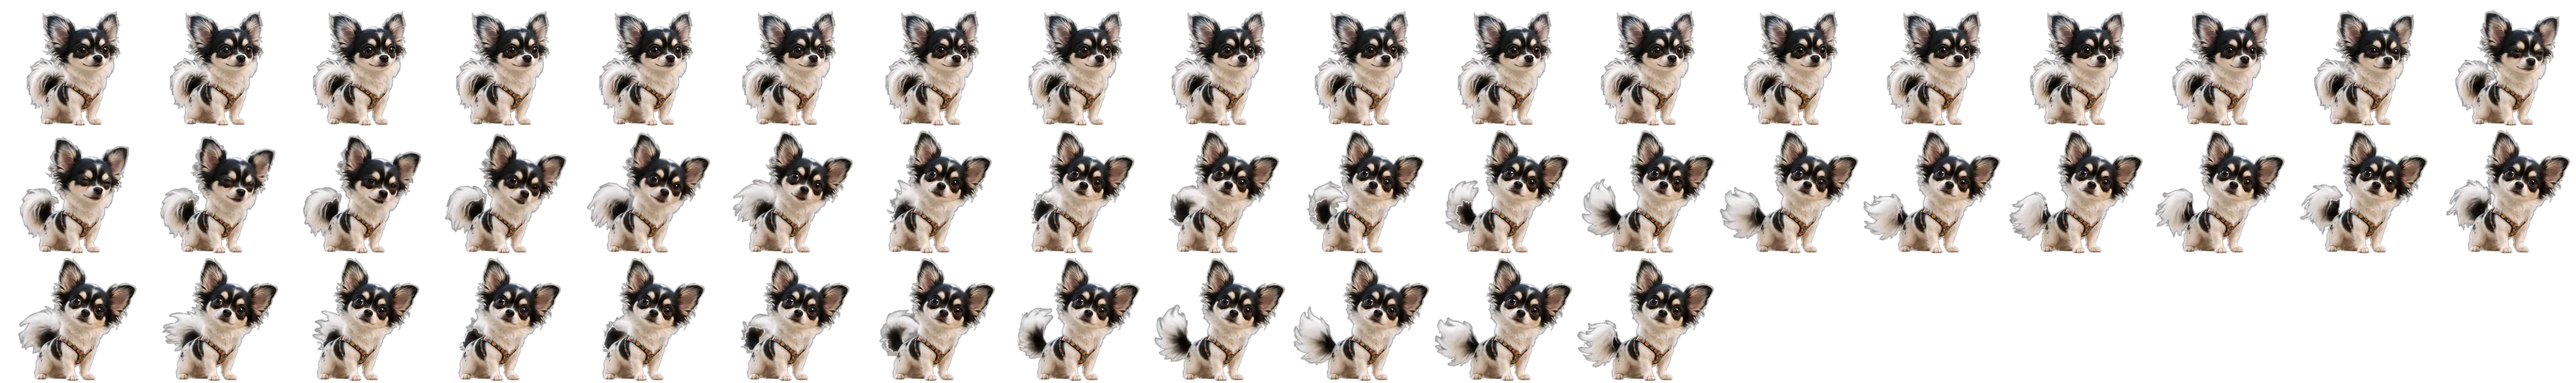
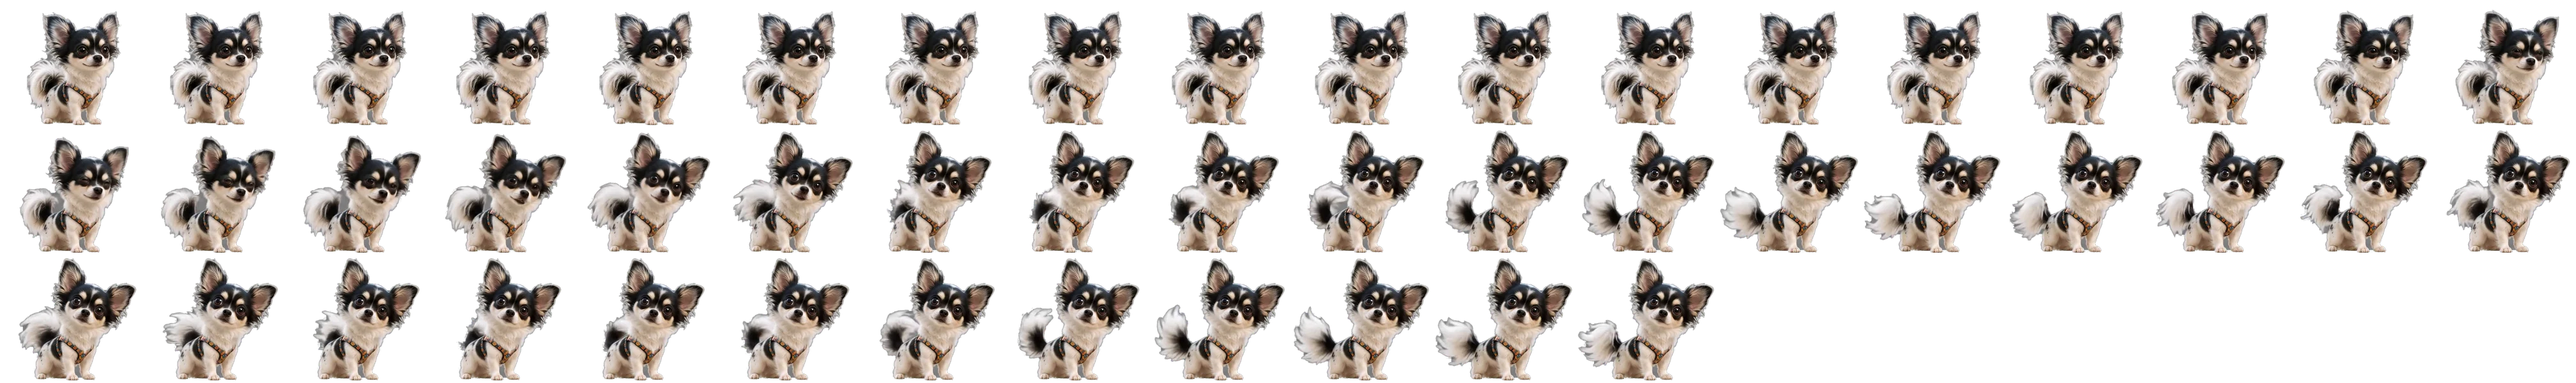
Segunda rodada: aura, Furtão furado, amigos no ar, bilhete e câmera
- Sem a aura (contorno de luz) em volta do Timtim e dos bichos.
- Recorte dos vídeos refeito: o pelo claro do peito do Furtão era
  apagado junto com o fundo cinza e abria um buraco no corpo; o miolo
  do corpo agora fica opaco. Todas as 26 animações foram refeitas.
- Zara e Elvis param na beirada do buraco (antes andavam no ar).
- Correio elegante pequeno, no lado esquerdo, fora do caminho.
- Timtim comemora ao lado do Furtão derrotado, não dentro dele.
- Câmera sobe junto quando o Timtim vai alto; galhos do Arraial mais
  leves; faixas com sombra escura; raízes atrás do Timtim; ovo menor;
  balão de fala sempre dentro da tela; frase de carregamento certa
  em cada fase.
- Teste novo: amigos param na beirada.

diff --git a/game/src/render3d.js b/game/src/render3d.js
@@ -397,7 +397,7 @@ sky.scale.set(4700, 2700, 1); sky.position.set(0, 300, -3000);
   if (!ARR) for (const [x, y, w] of C.plats) { // fase 1: lajes de pedra com musgo luminoso e raízes penduradas (como antes)
     const m = new THREE.Mesh(boxUV(w, 18, 70, 120), [side, side, moss, side, side, side]);
     m.position.set(x + w / 2, GROUND - y - 9, 0); m.castShadow = m.receiveShadow = true; add(m);
-    const rt = add(new THREE.Mesh(planeGeoTop, rootM)); rt.scale.set(w * 0.96, 54 + (x % 40), 1); rt.position.set(x + w / 2, GROUND - y - 16, 30);
+    const rt = add(new THREE.Mesh(planeGeoTop, rootM)); rt.scale.set(w * 0.96, 54 + (x % 40), 1); rt.position.set(x + w / 2, GROUND - y - 16, -30); // as raízes ficam atrás do Timtim (na frente, cobriam ele quando pulava por baixo)
     const gl = add(new THREE.Mesh(planeGeoC, glowMat(PAL.mint, 0.22)), 3); gl.scale.set(w * 1.5, 46, 1); gl.position.set(x + w / 2, GROUND - y + 2, 34);
     pulses.push({ m: gl, base: 0.22, ph: x });
   }
@@ -475,10 +475,11 @@ sky.scale.set(4700, 2700, 1); sky.position.set(0, 300, -3000);
   // primeiro plano: folhagens escuras entre a câmera e o jogo, embaixo e penduradas em cima
   const FRONT = ARR ? 0x4a2a1e : 0xffffff; // no Arraial, o primeiro plano vira silhueta quase preta (o jogo fica entre ela e o fundo claro)
   const frenteM = texFrente.map(t => new THREE.MeshBasicMaterial({ map: t, color: FRONT, transparent: true, depthWrite: false, fog: false, side: THREE.DoubleSide }));
-  const galhoM = texGalhos && new THREE.MeshBasicMaterial({ map: texGalhos, color: FRONT, transparent: true, depthWrite: false, fog: false, side: THREE.DoubleSide });
+  // os galhos pendurados na frente não viram mancha preta no meio da tela: no Arraial ficam num marrom quente e meio transparentes
+  const galhoM = texGalhos && new THREE.MeshBasicMaterial({ map: texGalhos, color: ARR ? 0x7a5340 : 0xffffff, opacity: ARR ? 0.7 : 1, transparent: true, depthWrite: false, fog: false, side: THREE.DoubleSide });
   for (let i = 0, x = -200; x < END - 300; i++, x += 620 + (i * 397 % 420)) {
     const m = new THREE.Mesh(planeGeo, frenteM[i % 2]), hh = 150 + (i % 3) * 22; m.scale.set(hh * FRENTE_AR[i % 2] * (i % 4 > 1 ? -1 : 1), hh, 1); m.position.set(x, -78, 350 + (i % 2) * 50); add(m, 9);
-    if (i % 2) { const t = new THREE.Mesh(planeGeoTop, galhoM); const gh = 250 + (i % 3) * 30; t.scale.set(gh * GALHO_AR * (i % 4 === 1 ? -1 : 1), gh, 1); t.position.set(x + 310, 500, 330); add(t, 9); }
+    if (i % 2) { const t = new THREE.Mesh(planeGeoTop, galhoM); const gh = 250 + (i % 3) * 30; t.scale.set(gh * GALHO_AR * (i % 4 === 1 ? -1 : 1), gh, 1); t.position.set(x + 310, ARR ? 600 : 500, 330); add(t, 9); }
   }
 })();
 // ---------------- o Arraial (fase 2) ----------------
@@ -667,10 +668,11 @@ const itemM = S.items.map(it => { const m = sprite(it.type === 'gold' ? 'cookie'
   return m; });
 const friendM = S.friends.map(f => { const m = sprite(f.kind, 5, true, 0xfff6ec); m.geometry = legGeo();
   m.userData.glow = add(new THREE.Mesh(planeGeoC, glowMat(0xffd9a0, 0.3)), 4); return m; });
+R.dbg = { brute: () => bruteM, friends: () => friendM }; // (para os testes inspecionarem o desenho)
 const giftM = [0, 1].map(() => { const m = sprite(C.GIFT_ITEM, 7, false); m.geometry = planeGeoC; m.visible = false;
   m.userData.glow = add(new THREE.Mesh(planeGeoC, glowMat(0xffd27a, 0.8)), 6); m.userData.glow.visible = false; return m; });
 // no Arraial, galinhas, lobo-guará, Zara, Elvis e o ovo ganham o contorno de luz fria
-if (ARR) { [foxM, ...runnerM, ...pigeonM, ...friendM].forEach(m => addRim(m, 0xcfe6ff, 0.55)); giftM.forEach(m => addRim(m, 0xffffff, 0.7)); }
+// (os contornos de luz nos personagens do Arraial saíram: pareciam uma aura recortada em volta de cada um)
 // cena do roubo: um segundo Furtão (o chefão real só aparece na arena) com o Macaco Fedido pendurado na boca
 const thiefM = sprite('brute-charge', 6, true, 0xf2e2d2); thiefM.geometry = legGeo(); thiefM.userData.ph = 0; thiefM.visible = false;
 const carryM = sprite('monkey-front', 7, true, 0xfff4e6); carryM.geometry = planeGeoTop; carryM.visible = false;
@@ -871,7 +873,7 @@ R.frame = (rdt) => {
       const pa = cape.geometry.attributes.position, wv = 13 + Math.min(10, Math.abs(p.vy) / 40);
       for (let i = 0; i < pa.count; i++) { const x = capeX[i]; pa.setY(i, capeY[i] + Math.sin(x * 7 + time * wv) * 0.09 * -x); }
       pa.needsUpdate = true; } }
-  rim.geometry = tintim.geometry; rim.material.map = tintim.material.map; rim.visible = tintim.visible && S.mode !== 'lose';
+  rim.geometry = tintim.geometry; rim.material.map = tintim.material.map; rim.visible = false; // o contorno de luz parecia uma aura recortada em volta dele: desligado
   rim.position.set(tintim.position.x, tintim.position.y - 2, tintim.position.z - 0.6); rim.rotation.z = tintim.rotation.z; rim.scale.set(tintim.scale.x * 1.07, tintim.scale.y * 1.06, 1);
   rim.material.opacity = (ARR ? 0.5 : 0.6) + Math.sin(time * 3.1) * 0.06 + (p.egg > 0 ? 0.25 : 0);
   if (p.egg > 0 && Math.random() < live * (p.gliding ? 40 : 12)) spawn({ x: tx - p.face * 30 + (Math.random() - 0.5) * 30, y: p.y + 10 + Math.random() * 20, vx: -p.face * 40, vy: 20 + Math.random() * 40, g: 30, life: 0.7, r: 2 + Math.random() * 2, color: Math.random() < 0.5 ? 0xffe08a : 0xfff4c8, hard: true });
@@ -912,7 +914,7 @@ R.frame = (rdt) => {
     const g = m.userData.glow; g.position.set(f.x, 30 + hop, -38); const s = 120 + Math.sin(f.t * 2.2) * 8; g.scale.set(s, s, 1); g.material.opacity = f.given ? 0.2 : 0.34;
   });
   giftM.forEach((m, i) => { const g = S.gifts[i], gl = m.userData.glow; m.visible = gl.visible = !!g; if (!g) return;
-    const gs = C.GIFT_ITEM === 'ovo' ? 60 : 30; m.scale.set(gs * AR[C.GIFT_ITEM], gs, 1); m.position.set(g.x, Y(g.y), 5); m.rotation.z = g.t * (C.GIFT_ITEM === 'ovo' ? 5 : 9); gl.position.set(g.x, Y(g.y), 4); gl.scale.set(ARR ? 130 : 86, ARR ? 130 : 86, 1); if (ARR) gl.material.color.set(0xfff6e0); // o ovo: maior e com um brilho claro, para não sumir no laranja
+    const gs = C.GIFT_ITEM === 'ovo' ? 44 : 30; m.scale.set(gs * AR[C.GIFT_ITEM], gs, 1); m.position.set(g.x, Y(g.y), 5); m.rotation.z = g.t * (C.GIFT_ITEM === 'ovo' ? 5 : 9); gl.position.set(g.x, Y(g.y), 4); gl.scale.set(ARR ? 92 : 86, ARR ? 92 : 86, 1); if (ARR) gl.material.color.set(0xffe2a0); // o ovo: maior e com um brilho claro, para não sumir no laranja
     if (Math.random() < 0.6) spawn({ x: g.x, y: g.y, vx: (Math.random() - 0.5) * 40, vy: (Math.random() - 0.5) * 40, g: 60, life: 0.45, r: 3, color: 0xffd98a }); });
 
   // Brutão

diff --git a/game/src/anim-data.js b/game/src/anim-data.js
@@ -2,4 +2,4 @@
 // n quadros numa grade cols x rows; ar = largura/altura da célula; mode: ciclo (laço), vaivem (vai e volta), trecho (uma vez);
 // body = altura do corpo em fração da célula; foot = folga embaixo do pé.
 window.TT = window.TT || {};
-TT.ANIM = {"elvis-corre": {"n": 8,"cols": 8,"rows": 1,"ar": 1.17,"mode": "ciclo","body": 0.9265,"foot": 0.025},"elvis-parado": {"n": 48,"cols": 18,"rows": 3,"ar": 1.12,"mode": "vaivem","body": 0.955,"foot": 0.02},"elvis-pula": {"n": 36,"cols": 30,"rows": 2,"ar": 0.67,"mode": "vaivem","body": 0.9275,"foot": 0.035},"furtao-anda": {"n": 23,"cols": 10,"rows": 3,"ar": 1.36,"mode": "ciclo","body": 0.9333,"foot": 0.0433},"furtao-investe": {"n": 17,"cols": 8,"rows": 3,"ar": 1.8423,"mode": "ciclo","body": 0.9015,"foot": 0.0462},"furtao-late": {"n": 37,"cols": 14,"rows": 3,"ar": 0.97,"mode": "ciclo","body": 0.9533,"foot": 0.0167},"furtao-morde": {"n": 36,"cols": 9,"rows": 4,"ar": 1.5893,"mode": "vaivem","body": 0.9339,"foot": 0.0214},"furtao-tonto": {"n": 36,"cols": 11,"rows": 4,"ar": 1.1567,"mode": "vaivem","body": 0.9383,"foot": 0.0167},"galinha-anda": {"n": 11,"cols": 11,"rows": 1,"ar": 0.8,"mode": "ciclo","body": 0.935,"foot": 0.03},"galinha-foge": {"n": 16,"cols": 16,"rows": 1,"ar": 0.96,"mode": "ciclo","body": 0.915,"foot": 0.0375},"guara-anda": {"n": 26,"cols": 12,"rows": 3,"ar": 1.0281,"mode": "ciclo","body": 0.9563,"foot": 0.0219},"guara-come": {"n": 36,"cols": 9,"rows": 4,"ar": 1.775,"mode": "vaivem","body": 0.7583,"foot": 0.0208},"guara-corre": {"n": 17,"cols": 8,"rows": 3,"ar": 1.6321,"mode": "ciclo","body": 0.93,"foot": 0.0393},"guara-fucha": {"n": 21,"cols": 7,"rows": 3,"ar": 2.2042,"mode": "ciclo","body": 0.9375,"foot": 0.025},"guara-late": {"n": 36,"cols": 11,"rows": 4,"ar": 1.1313,"mode": "vaivem","body": 0.9656,"foot": 0.0125},"guara-tonto": {"n": 36,"cols": 11,"rows": 4,"ar": 1.125,"mode": "vaivem","body": 0.9375,"foot": 0.0609},"macaco-alegre": {"n": 36,"cols": 20,"rows": 2,"ar": 0.8208,"mode": "vaivem","body": 0.6562,"foot": 0.2625},"pombo-anda": {"n": 24,"cols": 20,"rows": 2,"ar": 1.1056,"mode": "ciclo","body": 0.9278,"foot": 0.0361},"timtim-comemora": {"n": 23,"cols": 23,"rows": 1,"ar": 0.7292,"mode": "ciclo","body": 0.8833,"foot": 0.0583},"timtim-fareja": {"n": 11,"cols": 11,"rows": 1,"ar": 1.3545,"mode": "ciclo","body": 0.9227,"foot": 0.0227},"timtim-machuca": {"n": 24,"cols": 24,"rows": 1,"ar": 0.6955,"mode": "trecho","body": 0.7745,"foot": 0.2114},"timtim-parado": {"n": 48,"cols": 17,"rows": 3,"ar": 1.0909,"mode": "vaivem","body": 0.95,"foot": 0.0227},"timtim-pulo": {"n": 15,"cols": 15,"rows": 1,"ar": 1.0136,"mode": "vaivem","body": 0.7345,"foot": 0.1773},"zara-corre": {"n": 8,"cols": 8,"rows": 1,"ar": 1.175,"mode": "ciclo","body": 0.9415,"foot": 0.02},"zara-parado": {"n": 48,"cols": 21,"rows": 3,"ar": 0.97,"mode": "vaivem","body": 0.9395,"foot": 0.02},"zara-pula": {"n": 36,"cols": 36,"rows": 1,"ar": 0.53,"mode": "vaivem","body": 0.8775,"foot": 0.0325}};
+TT.ANIM = {"elvis-corre": {"n": 8,"cols": 8,"rows": 1,"ar": 1.17,"mode": "ciclo","body": 0.9165,"foot": 0.03},"elvis-parado": {"n": 48,"cols": 18,"rows": 3,"ar": 1.12,"mode": "vaivem","body": 0.95,"foot": 0.02},"elvis-pula": {"n": 36,"cols": 30,"rows": 2,"ar": 0.67,"mode": "vaivem","body": 0.925,"foot": 0.035},"furtao-anda": {"n": 23,"cols": 10,"rows": 3,"ar": 1.3567,"mode": "ciclo","body": 0.9253,"foot": 0.0467},"furtao-investe": {"n": 17,"cols": 8,"rows": 3,"ar": 1.8308,"mode": "ciclo","body": 0.8923,"foot": 0.0538},"furtao-late": {"n": 37,"cols": 14,"rows": 3,"ar": 0.97,"mode": "ciclo","body": 0.95,"foot": 0.0167},"furtao-morde": {"n": 36,"cols": 9,"rows": 4,"ar": 1.5893,"mode": "vaivem","body": 0.9357,"foot": 0.025},"furtao-tonto": {"n": 36,"cols": 14,"rows": 3,"ar": 0.9633,"mode": "vaivem","body": 0.8867,"foot": 0.02},"galinha-anda": {"n": 11,"cols": 11,"rows": 1,"ar": 0.795,"mode": "ciclo","body": 0.93,"foot": 0.03},"galinha-foge": {"n": 15,"cols": 15,"rows": 1,"ar": 0.9,"mode": "ciclo","body": 0.908,"foot": 0.035},"guara-anda": {"n": 26,"cols": 12,"rows": 3,"ar": 1.0312,"mode": "ciclo","body": 0.9516,"foot": 0.025},"guara-come": {"n": 36,"cols": 9,"rows": 4,"ar": 1.8458,"mode": "vaivem","body": 0.7583,"foot": 0.025},"guara-corre": {"n": 17,"cols": 8,"rows": 3,"ar": 1.6286,"mode": "ciclo","body": 0.9229,"foot": 0.0429},"guara-fucha": {"n": 21,"cols": 7,"rows": 3,"ar": 2.2125,"mode": "ciclo","body": 0.9292,"foot": 0.0292},"guara-late": {"n": 36,"cols": 11,"rows": 4,"ar": 1.1281,"mode": "vaivem","body": 0.9594,"foot": 0.0187},"guara-tonto": {"n": 36,"cols": 11,"rows": 4,"ar": 1.125,"mode": "vaivem","body": 0.9344,"foot": 0.0625},"macaco-alegre": {"n": 36,"cols": 20,"rows": 2,"ar": 0.8167,"mode": "vaivem","body": 0.6542,"foot": 0.2667},"pombo-anda": {"n": 24,"cols": 20,"rows": 2,"ar": 1.1056,"mode": "ciclo","body": 0.9206,"foot": 0.0389},"timtim-comemora": {"n": 23,"cols": 23,"rows": 1,"ar": 0.7292,"mode": "ciclo","body": 0.875,"foot": 0.0625},"timtim-fareja": {"n": 11,"cols": 11,"rows": 1,"ar": 1.3545,"mode": "ciclo","body": 0.9136,"foot": 0.0273},"timtim-machuca": {"n": 24,"cols": 24,"rows": 1,"ar": 0.6955,"mode": "trecho","body": 0.77,"foot": 0.2136},"timtim-parado": {"n": 48,"cols": 17,"rows": 3,"ar": 1.0864,"mode": "vaivem","body": 0.9409,"foot": 0.0273},"timtim-pulo": {"n": 15,"cols": 15,"rows": 1,"ar": 1.0136,"mode": "vaivem","body": 0.73,"foot": 0.1773},"zara-corre": {"n": 8,"cols": 8,"rows": 1,"ar": 1.17,"mode": "ciclo","body": 0.9315,"foot": 0.025},"zara-parado": {"n": 48,"cols": 21,"rows": 3,"ar": 0.975,"mode": "vaivem","body": 0.938,"foot": 0.02},"zara-pula": {"n": 36,"cols": 36,"rows": 1,"ar": 0.535,"mode": "vaivem","body": 0.8725,"foot": 0.0325}};

diff --git a/game/index.html b/game/index.html
@@ -59,7 +59,7 @@
   #btnPause { right: 1.6cqw; } #btnMute { right: 6.2cqw; }
 
   #banner { position: absolute; left: 50%; top: 20%; transform: translate(-50%, 0); opacity: 0; font-family: var(--display); font-size: 3.5cqw; letter-spacing: .32cqw; color: #fff; white-space: normal; width: max-content; max-width: 84cqw; text-align: center; line-height: 1.15; pointer-events: none;
-    text-shadow: 0 0 1.2cqw rgba(255, 214, 160, .95), 0 0 4cqw rgba(255, 130, 90, .7), 0 .2cqw .6cqw rgba(0, 10, 16, .8); }
+    text-shadow: 0 .15cqw .5cqw rgba(18, 6, 4, .95), 0 0 1.6cqw rgba(18, 6, 4, .85), 0 0 3.6cqw rgba(18, 6, 4, .6); } /* sombra escura: a faixa se lê sobre o fundo claro do Arraial */
   #banner::after { content: ""; display: block; height: .12cqw; margin: .7cqw auto 0; width: 60%; background: linear-gradient(90deg, transparent, var(--glow), transparent); }
   #banner.show { animation: banner 2.6s var(--out) both; }
   @keyframes banner { 0% { opacity: 0; transform: translate(-50%, 1cqw); } 16% { opacity: 1; transform: translate(-50%, 0); } 80% { opacity: 1; transform: translate(-50%, 0); } 100% { opacity: 0; transform: translate(-50%, -1cqw); } }
@@ -67,11 +67,11 @@
   #say { position: absolute; transform: translate(-50%, -100%) scale(.6); opacity: 0; background: #fff6ea; color: #3a1c30; font-weight: 800; font-size: 1.7cqw; padding: .4cqw 1.3cqw; border-radius: 1.4cqw; white-space: nowrap; pointer-events: none; transition: opacity .25s, transform .35s var(--pop); box-shadow: 0 .3cqw 1.2cqw rgba(40, 10, 30, .4); }
   #say::after { content: ""; position: absolute; left: 50%; bottom: -.7cqw; border: .8cqw solid transparent; border-top-color: #fff6ea; border-bottom: 0; transform: translateX(-50%); }
   #say.on { opacity: 1; transform: translate(-50%, -100%) scale(1); }
-  #note { position: absolute; left: 50%; top: 27%; width: 46cqw; transform: translate(-50%, 0) rotate(-1.5deg) scale(.7); opacity: 0; background: #ffe3ee; color: #4a1830; border-radius: 1.4cqw; padding: 1.1cqw 1.8cqw 1.3cqw; pointer-events: none; text-align: center;
+  #note { position: absolute; left: 2.2cqw; top: 33%; width: 25cqw; transform: rotate(-1.5deg) scale(.7); transform-origin: 0 0; opacity: 0; background: #ffe3ee; color: #4a1830; border-radius: 1.4cqw; padding: 1.1cqw 1.8cqw 1.3cqw; pointer-events: none; text-align: center;
     box-shadow: 0 .5cqw 2cqw rgba(60, 10, 30, .45), inset 0 0 0 .25cqw #ff9fc0; transition: opacity .3s, transform .45s var(--pop); }
-  #note small { display: block; font-size: 1.3cqw; font-weight: 800; letter-spacing: .3cqw; text-transform: uppercase; color: #d8457a; }
-  #note p { margin: .5cqw 0 0; font-size: 1.85cqw; font-weight: 700; line-height: 1.3; }
-  #note.on { opacity: 1; transform: translate(-50%, 0) rotate(-1.5deg) scale(1); }
+  #note small { display: block; font-size: 1.05cqw; font-weight: 800; letter-spacing: .3cqw; text-transform: uppercase; color: #d8457a; }
+  #note p { margin: .5cqw 0 0; font-size: 1.4cqw; font-weight: 700; line-height: 1.3; }
+  #note.on { opacity: .96; transform: rotate(-1.5deg) scale(1); } /* pequeno, no lado esquerdo, abaixo das faixas de dica: longe do Timtim, dos pulos e dos botões */
   .hero { position: relative; display: grid; place-items: center; animation: float 6s ease-in-out infinite; }
   .hero::before { content: ""; position: absolute; width: 30cqw; height: 30cqw; border-radius: 50%; background: radial-gradient(circle, rgba(255, 226, 170, .75), rgba(255, 150, 100, .28) 45%, transparent 70%); }
   .hero img { position: relative; height: 30cqw; filter: drop-shadow(0 1cqw 1.6cqw rgba(40, 10, 30, .5)); }
@@ -273,7 +273,7 @@
     <div id="shelfSlots"></div><p id="shelfCount"></p>
     <div class="row"><button class="btn" id="btnShelfBack">Voltar</button></div>
   </div></section>
-  <div id="msg">Ajude Timtim a resgatar o Macaco Fedido…</div>
+  <div id="msg">Carregando…</div><script>/* a frase de carregamento já sai certa para cada fase (antes a fase 2 mostrava a da fase 1) */ document.getElementById('msg').textContent = /fase2/.test(location.hash) || /fase=2/.test(location.search) ? 'Um estranho está espantando as galinhas do arraial…' : 'Ajude Timtim a resgatar o Macaco Fedido…';</script>
 </div></div>
 
 <script src="vendor/three.min.js"></script>

diff --git a/game/src/game.js b/game/src/game.js
@@ -375,7 +375,10 @@ TT.update = (rdt) => {
   if (playing && !S.cine) S.time += dt;
   if (S.mode === 'winning') {
     S.winT += rdt;
-    if (S.winT > 0.9 && S.player.onGround) S.player.won = true;
+    // vencido o Furtão, o Timtim desce de cima dele e comemora do lado (antes comemorava em pé dentro do corpo do bulldog)
+    const bb = S.boss, pp = S.player, onBoss = C.BOSS && bb.hp <= 0 && Math.abs(pp.x + pp.w / 2 - (bb.x + bb.w / 2)) < bb.w * 0.8;
+    if (onBoss && pp.onGround && !pp.won) { pp.vx = (Math.sign(pp.x + pp.w / 2 - (bb.x + bb.w / 2)) || 1) * 240; pp.face = Math.sign(pp.vx); }
+    if (S.winT > 0.9 && S.player.onGround && !onBoss) { if (C.BOSS && !S.player.won) S.player.face = Math.sign(bb.x + bb.w / 2 - pp.x) || 1; S.player.won = true; }
     if (S.winT > 3.2) { S.mode = 'win'; S.player.won = true; emit('win', stats()); }
   }
 
@@ -504,7 +507,9 @@ TT.update = (rdt) => {
     const seen = playing && Math.abs(pcx - f.home) < 460, chase = seen && (!f.given || f.follow > 0);
     const goal = Math.max(f.home - 20, Math.min(f.home + 280, chase ? pcx - Math.sign(pcx - f.x) * 70 : f.home));
     const want = f.hop > 0.35 || Math.abs(goal - f.x) < 10 ? 0 : Math.sign(goal - f.x) * (chase || !playing ? 260 : 130);
-    f.vx += (want - f.vx) * Math.min(1, dt * 9); f.x += f.vx * dt;
+    f.vx += (want - f.vx) * Math.min(1, dt * 9);
+    // amigos não andam no ar: se o próximo passo sai do chão (beirada de um buraco), param na beirada
+    { const nx = f.x + f.vx * dt, edge = nx + Math.sign(f.vx) * 16; if (groundAt(f.x) && !groundAt(edge)) f.vx = 0; else f.x = nx; }
     if (Math.abs(f.vx) > 30) f.face = Math.sign(f.vx); else if (seen || !playing) f.face = pcx < f.x ? -1 : 1;
     if (playing && !f.given && Math.abs(pcx - f.x) < 120) {
       f.given = true; f.hop = 0.9; f.follow = 3.2; S.gifts.push({ sx: f.x + f.face * 18, sy: GROUND - 58, x: f.x, y: GROUND - 58, t: 0, kind: S.friends.indexOf(f) });
@@ -569,7 +574,7 @@ TT.update = (rdt) => {
   cam.look += (p.vx * 0.32 - cam.look) * Math.min(1, dt * 2.5);
   const want = S.arena ? ARENA_X : Math.max(0, Math.min(ARENA_X, p.x - W * 0.4 + cam.look));
   cam.x += (want - cam.x) * Math.min(1, dt * 5);
-  const wantY = S.arena ? Math.max(-60, Math.min(0, (p.y + p.h - (GROUND - 150)) * 0.3)) : Math.max(-150, Math.min(0, (p.y + p.h - (GROUND - 70)) * 0.42));
+  const wantY = S.arena ? Math.max(C.FOX ? -170 : -60, Math.min(0, (p.y + p.h - (GROUND - 150)) * (C.FOX ? 0.45 : 0.3))) : Math.max(-260, Math.min(0, (p.y + p.h - (GROUND - 70)) * 0.6)); // sobe junto quando ele vai alto (planando, a argola): não fica colado no placar
   cam.y += (wantY - cam.y) * Math.min(1, dt * 3.4);
 };
 

diff --git a/game/tests/smoke-arraial.js b/game/tests/smoke-arraial.js
@@ -53,6 +53,12 @@ const { chromium } = require('playwright');
     await pg.waitForTimeout(250);
     check(await ev(() => __tintim.S.enemies.every(e => e.alive) && __tintim.player.hp === 3), 'pisar numa galinha faz o Timtim quicar: ela foge e não morre' + (process.env.DBG ? await ev(() => JSON.stringify([__tintim.S.enemies.map(e => [e.alive, Math.round(e.x), Math.round(e.y)]), __tintim.player.hp, Math.round(__tintim.player.y), __tintim.player.vy])) : '')); }
 
+  // a Zara não anda no ar: com o Timtim do outro lado do buraco, ela para na beirada
+  await ev(() => { const f = __tintim.S.friends[0]; f.x = 4440; f.given = false; f.follow = 0; Object.assign(__tintim.player, { x: 4700, y: 60, vx: 0, vy: 0, onGround: false, inv: 99, hp: 3 }); });
+  await ev(() => { window.__fx = 0; const t0 = performance.now(); const f = () => { __fx = Math.max(__fx, __tintim.S.friends[0].x); if (performance.now() - t0 < 700) requestAnimationFrame(f); }; requestAnimationFrame(f); });
+  await pg.waitForTimeout(800);
+  check(await ev(() => __fx <= 4500), `os amigos param na beirada do buraco (foi até ${Math.round(await ev(() => __fx))}, o chão acaba em 4500)`);
+
   // a chama não machuca: é ali que ele pula para subir no ar quente
   await put(fx - 27, 452 - 50, { onGround: true }); await pg.waitForTimeout(250);
   check(await ev(() => __tintim.player.hp === 3), 'encostar na fogueira não tira coração (ela é o trampolim do planar)');

diff --git a/game/src/ui.js b/game/src/ui.js
@@ -184,7 +184,8 @@ TT.on('friend', e => { sayF = S.friends.reduce((a, f) => Math.abs(f.x - e.x) < M
 const uiFrame0 = TT.uiFrame;
 TT.uiFrame = () => { uiFrame0(); if (!sayF) return;
   if (performance.now() > sayEnd || S.mode === 'lose') { say.classList.remove('on'); sayF = null; return; }
-  const at = TT.R.toScreen(sayF.x, C.GROUND - 118); say.style.left = (at.x * 100).toFixed(2) + '%'; say.style.top = (at.y * 100).toFixed(2) + '%'; };
+  const at = TT.R.toScreen(sayF.x, C.GROUND - 118), half = say.offsetWidth / 2 / Math.max(1, stage.clientWidth) + 0.01; // o balão nunca sai da tela
+  say.style.left = (Math.max(half, Math.min(1 - half, at.x)) * 100).toFixed(2) + '%'; say.style.top = (Math.max(0.12, at.y) * 100).toFixed(2) + '%'; };
 TT.on('pause', () => show('pause'));
 TT.on('resume', () => show(null));
 TT.on('stealIntro', () => stage.classList.add('cine'));

diff --git a/docs/revisao-hater.md b/docs/revisao-hater.md
@@ -78,3 +78,19 @@ Legenda: ✅ corrigido · ➖ mantido de propósito (com o motivo) · ⏳ depend
 53. ✅ A galinha cacarejava com o som do pombo. Agora tem sons do Artlist (aprovados): dois cacarejos de susto alternados, galinhas em disparada no aviso da debandada, bater de asas quando o Timtim quica nelas e o galinheiro em alvoroço quando expulsam o lobo.
 54. ⏳ O Arraial ainda toca a música do Parque. Falta o arquivo da trilha do Suno (`assets/music/arraial.mp3`).
 55. ⏳ A tela da história da fase 2 foi retirada: a imagem gerada no Artlist mostrava um cachorro que não é o Timtim (parecia um border collie). Ela volta só com uma arte nova, com o Timtim fiel ao personagem e aprovada antes.
+
+## Segunda rodada (depois do retorno do Pedro, 24/11 à noite)
+Desta vez as duas fases foram atravessadas de ponta a ponta, sem teleporte, com o Timtim correndo, pulando e planando, e uma foto a cada 0,6 s de jogo. Também gravei o Furtão quadro a quadro na abertura, na apresentação e na derrota.
+
+56. ✅ **Aura em volta dos personagens.** O contorno de luz do Timtim (e, no Arraial, de todos os bichos) parecia uma aura recortada. Saiu.
+57. ✅ **Zara andando no ar sobre o buraco.** Os amigos agora param na beirada.
+58. ✅ **Correio elegante no meio da tela.** Virou um bilhete pequeno no canto esquerdo, logo abaixo dos corações (antes também cobria os botões de música e pausa).
+59. ✅ **Defeito no Furtão.** O pelo claro do peito era parecido com o fundo cinza do vídeo e foi apagado junto, abrindo um buraco por onde apareciam os cogumelos de trás. O recorte agora deixa o miolo do corpo opaco, e todas as animações foram refeitas.
+60. ✅ **Timtim comemorava dentro do corpo do Furtão derrotado.** Agora desce de cima dele e comemora do lado, virado para ele.
+61. ✅ A tela de carregamento da fase 2 mostrava a frase da fase 1 ("Ajude Timtim a resgatar o Macaco Fedido…").
+62. ✅ O balão de fala dos amigos saía cortado na borda da tela. Agora fica sempre dentro dela.
+63. ✅ Planando alto (argola, ar quente), o Timtim ficava colado no topo, embaixo do placar. A câmera sobe junto, também na arena do lobo.
+64. ✅ Um galho quase preto atravessava o meio da tela no Arraial. Os galhos ficaram num marrom quente, meio transparentes e mais altos.
+65. ✅ As faixas de dica (texto branco com brilho claro) sumiam sobre o fundo claro do Arraial. Ganharam sombra escura.
+66. ✅ Na fase 1, as raízes penduradas das plataformas cobriam o Timtim quando ele pulava por baixo. Ficaram atrás dele.
+67. ✅ O ovo voando até o Timtim era tão grande e claro que cobria a cabeça dele. Ficou menor.
